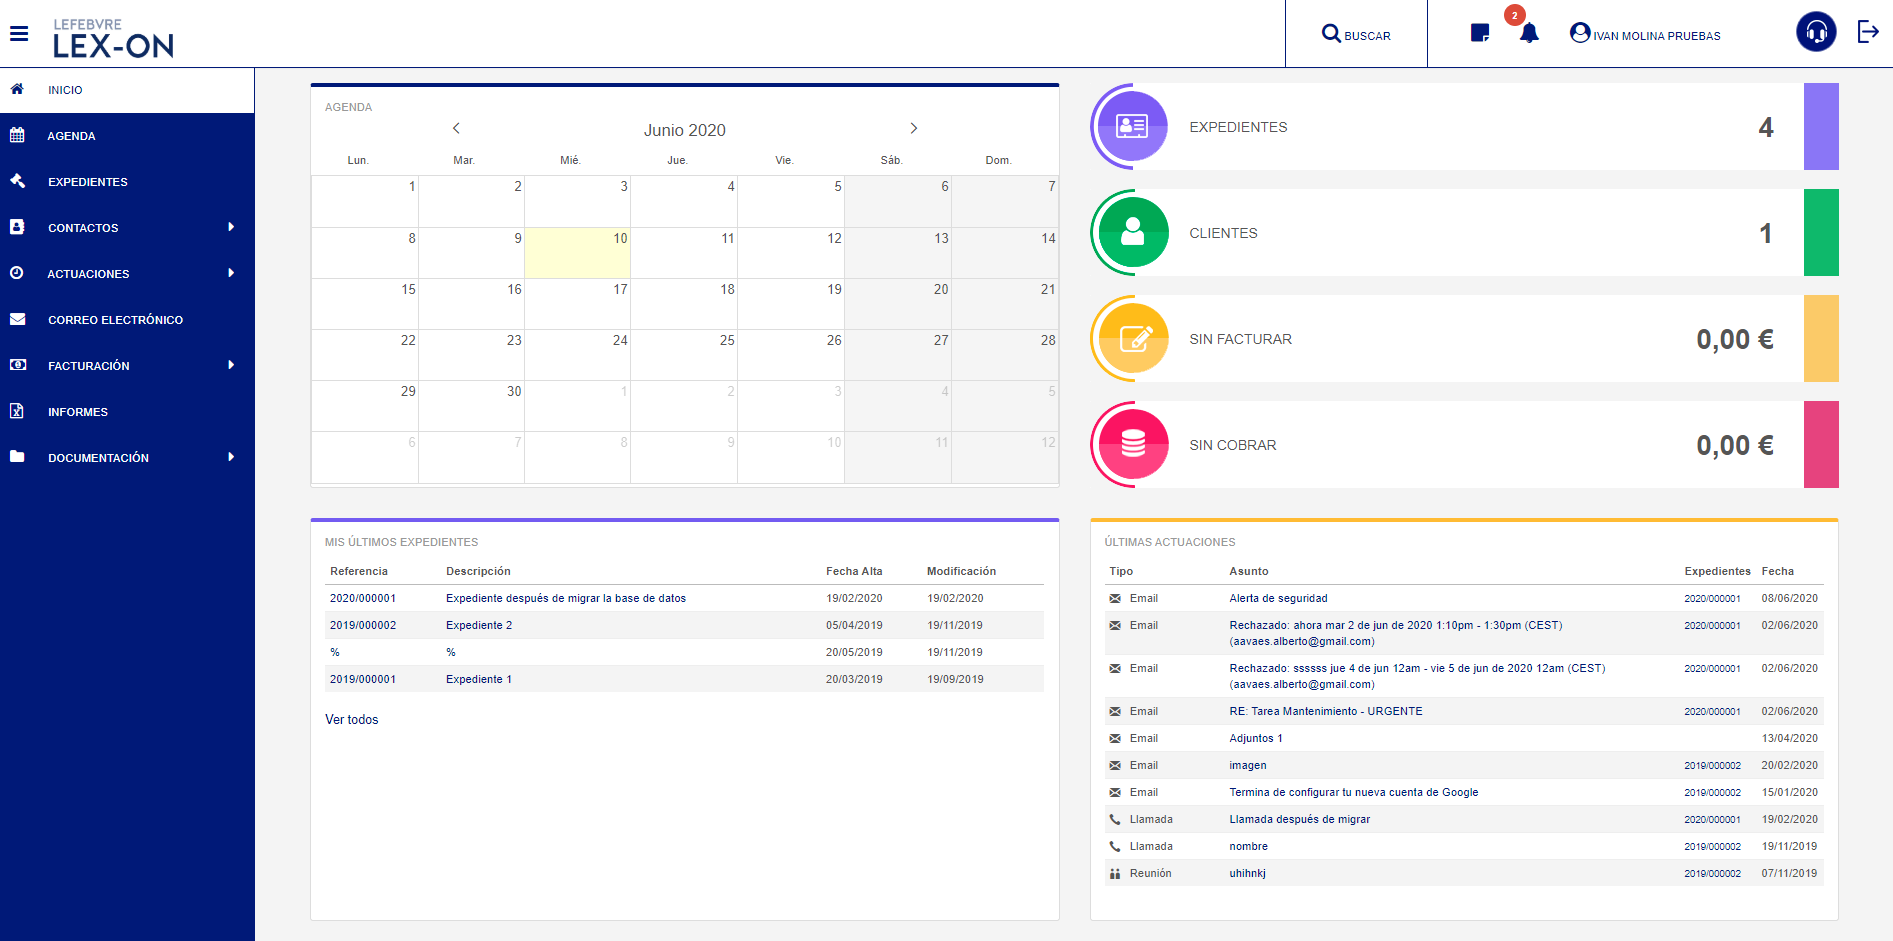
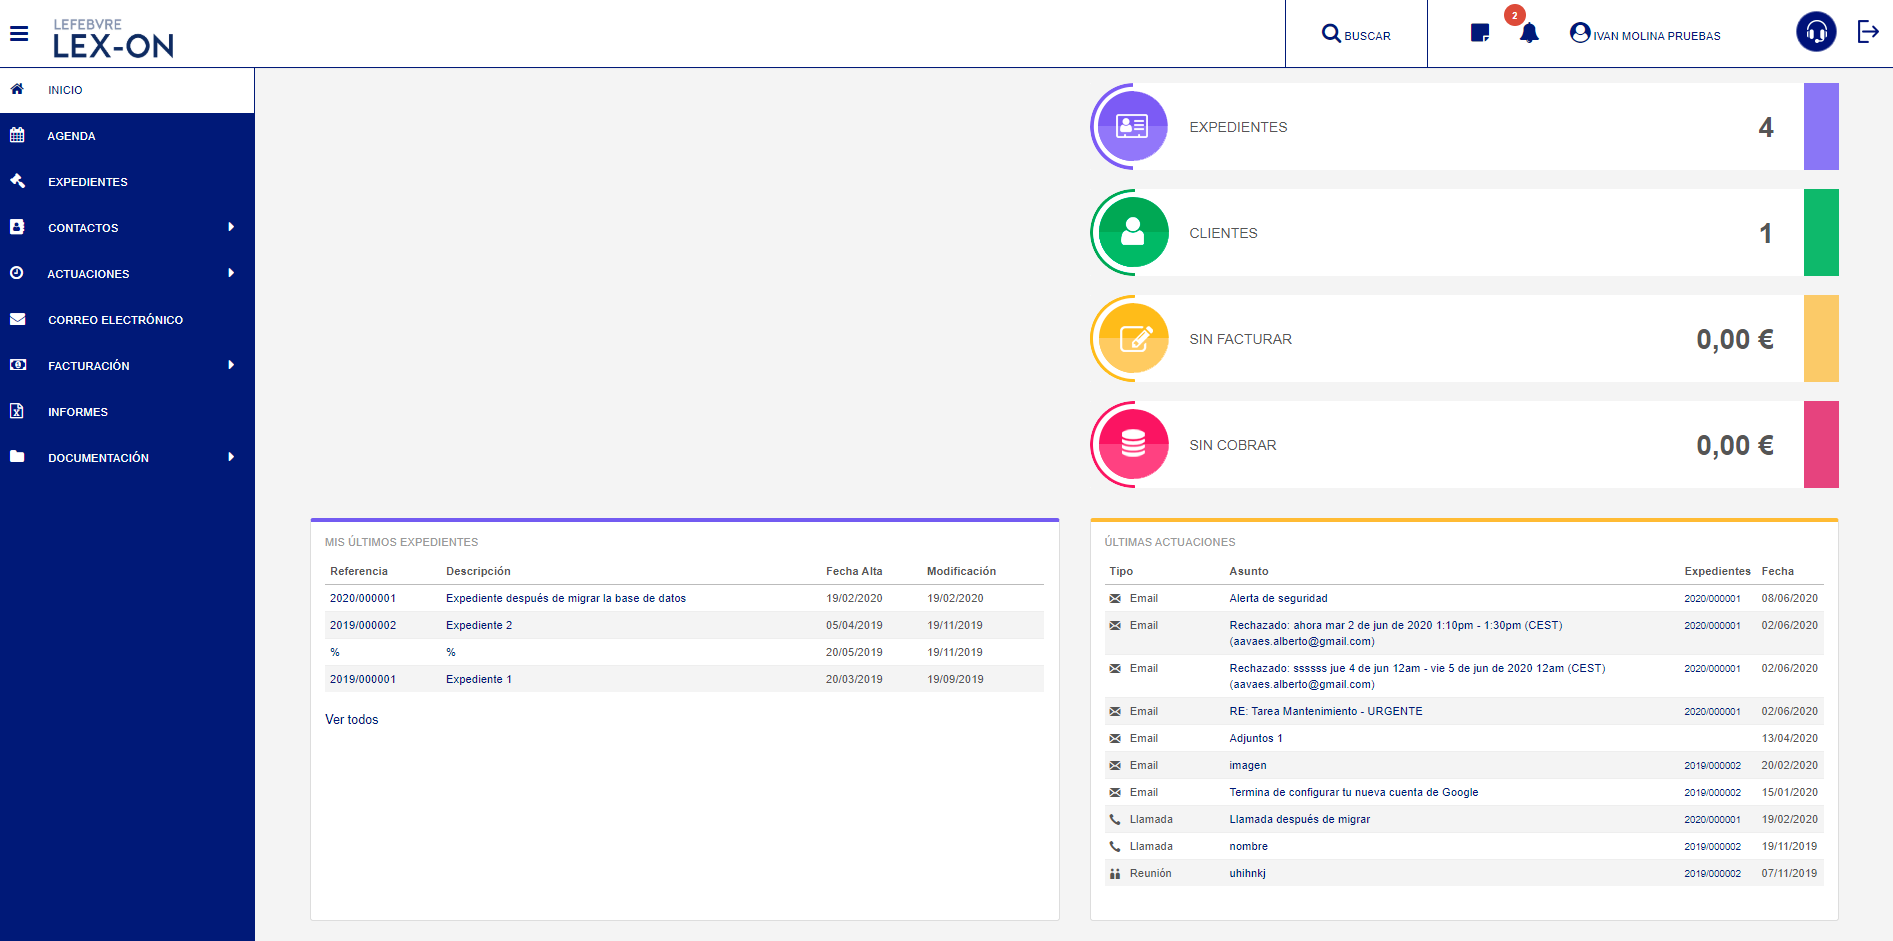
adding new iframe function

Changed region(s): [[0.1558, 0.0616, 0.561, 0.0925], [0.2493, 0.2157, 0.3428, 0.3082], [0.3428, 0.1233, 0.374, 0.1541]]

diff --git a/src/Web/WebGoogleClient/Client/src/calendar/components/main/main.jsx b/src/Web/WebGoogleClient/Client/src/calendar/components/main/main.jsx
@@ -116,7 +116,8 @@ export class Main extends Component {
             reminders: [],
             eventType: undefined,
             isVisibility: false,
-            to2: []
+            to2: [],
+            sidebarCollapsed:false
             //externalcomponent: "<LexonComponent sidebarDocked={this.onSetSidebarDocked} />"
         };
         this.handleGetUserFromLexonConnector = this.handleGetUserFromLexonConnector.bind(
@@ -203,7 +204,16 @@ export class Main extends Component {
         ];
 
     this.checkForParams();
-}
+    }
+
+    toggleSideBar() {
+        const toggleCollapsed = !this.state.leftSideBar.collapsed;
+        this.setState({
+            leftSideBar: {
+                collapsed: toggleCollapsed,
+            },
+        });
+    }
 
     onCloseDialog() {
         this.LoadCalendarList(false)
@@ -241,6 +251,7 @@ export class Main extends Component {
 
         if (params.get('layout') != undefined) {
             this.layoutIframe = true;
+           // this.setState({ sidebarCollapsed: true });
         }       
 
         if (params.get('newEvent') != undefined) {
@@ -684,6 +695,11 @@ export class Main extends Component {
     }
 
     componentDidMount() {
+
+        if (this.layoutIframe) {           
+            this.setState({ sidebarCollapsed: true });
+        }  
+
         window.addEventListener(
             'EventClassified',
             this.handleClassificatedEvent
@@ -1298,34 +1314,62 @@ export class Main extends Component {
         if (args.requestType === 'toolBarItemRendered') {
             let logoutIconEle = scheduleElement.querySelector('.e-schedule-logout-icon');
             logoutIconEle.onclick = () => {
-                alert('logout');
+               // alert('logout');
+                signOut();
+                window.location.reload();
             };
         }
-        let userContentEle = createElement('div', {
+        let logoutContentEle = createElement('div', {
             className: 'e-profile-wrapper'
         });
 
-        scheduleElement.parentElement.appendChild(userContentEle);
-        let userIconEle = scheduleElement.querySelector('.e-schedule-logout-icon');
-        let output = this.buttonEventTypeObj;       
+        scheduleElement.parentElement.appendChild(logoutContentEle);
+           
 
     }
+
+    
+
 
     addCalendarsButton(args) {
         let scheduleElement = document.getElementById('schedule');
         if (args.requestType === 'toolBarItemRendered') {
             let calendarIconEle = scheduleElement.querySelector('.e-schedule-calendar-icon');
             calendarIconEle.onclick = () => {
-                alert('calendars');
+                this.setState({ sidebarCollapsed: false });
+                
+                //this.profilePopupCalendar.relateTo = calendarIconEle;
+                //this.profilePopupCalendar.dataBind();
+                //if (this.profilePopupCalendar.element.classList.contains('e-popup-close')) {
+                //    this.profilePopupCalendar.show();
+                //}
+                //else {
+                //    this.profilePopupCalendar.hide();
+                //}
             };
         }
-        let userContentEle = createElement('div', {
+        let calendarContentEle = createElement('div', {
             className: 'e-profile-wrapper'
         });
 
-        scheduleElement.parentElement.appendChild(userContentEle);
-        let userIconEle = scheduleElement.querySelector('.e-schedule-calendar-icon');
-        let output = this.buttonEventTypeObj;
+        scheduleElement.parentElement.appendChild(calendarContentEle);
+
+        //scheduleElement.parentElement.appendChild(calendarContentEle);
+        //let calendarIconEle = scheduleElement.querySelector('.e-schedule-calendar-icon');
+
+        //let output = this.sidebarObj;
+        //this.profilePopupCalendar = new Popup(calendarContentEle, {
+        //    content: output,
+        //    relateTo: calendarIconEle,
+        //    position: { X: 'left', Y: 'bottom' },
+        //    collision: { X: 'flip', Y: 'flip' },
+        //    targetType: 'relative',
+        //    viewPortElement: scheduleElement,
+        //    width: 150,
+        //    height: 300
+        //});
+        //this.profilePopupCalendar.hide();
+       
 
     }
 
@@ -1946,21 +1990,24 @@ export class Main extends Component {
                             )}
 
                         <section className='main hbox space-between'>
-                            <Sidebar
-                                sideBarCollapsed={!this.layoutIframe ? (false) : (true)}
-                                sideBarToggle={this.toggleSideBar}
-                                getCalendarList={this.sidebarCalendarList}
-                                pathname={this.props.location.pathname}
-                                calendarResult={this.props.calendarsResult}
-                                onCalendarClick={this.loadCalendarEvents}
-                                onSidebarCloseClick={this.handleShowLeftSidebarClick}
-                                onCalendarChange={this.handleScheduleDate}
-                                onCalendarOpenEditor={this.handleScheduleOpenEditor}
-                                onCalendarOpenCalnendarView={this.openCalendarView}
-                                onCalendarDelete={this.deleteCalendar}
-                                onCalendarColorModify={this.calendarColorModify}
-
-                            />
+                           
+                                <Sidebar
+                                    sideBarCollapsed={this.state.sidebarCollapsed}
+                                    sideBarToggle={this.toggleSideBar}
+                                    getCalendarList={this.sidebarCalendarList}
+                                    pathname={this.props.location.pathname}
+                                    calendarResult={this.props.calendarsResult}
+                                    onCalendarClick={this.loadCalendarEvents}
+                                    onSidebarCloseClick={this.handleShowLeftSidebarClick}
+                                    onCalendarChange={this.handleScheduleDate}
+                                    onCalendarOpenEditor={this.handleScheduleOpenEditor}
+                                    onCalendarOpenCalnendarView={this.openCalendarView}
+                                    onCalendarDelete={this.deleteCalendar}
+                                    onCalendarColorModify={this.calendarColorModify}                                
+                                    ref={sidebar => this.sidebarCalendarObj = sidebar}
+                                />
+                           
+                           
                             <article className='d-flex flex-column position-relative'>
                                 <div className="hidden">
                                     <AttendeeAddress

diff --git a/src/Web/WebGoogleClient/Client/src/calendar/components/sidebar/sidebar.jsx b/src/Web/WebGoogleClient/Client/src/calendar/components/sidebar/sidebar.jsx
@@ -29,7 +29,8 @@ export class Sidebar extends PureComponent {
 
         this.state = {
             selectedLabel: props.pathname,
-            leftSideBarOpen: true           
+            leftSideBarOpen: true,   
+            sidebarCollapsed: this.props.sideBarCollapsed
         };
 
         this.navigateToList = this.navigateToList.bind(this);
@@ -58,7 +59,8 @@ export class Sidebar extends PureComponent {
     }
 
     sidebarAction() {
-        this.props.onSidebarCloseClick(this.state.leftSideBarOpen);
+        //this.props.onSidebarCloseClick(this.state.leftSideBarOpen);
+        this.setState({ sideBarCollapsed:true })
     }
 
     componentDidUpdate(prevProps, prevState) {
@@ -219,14 +221,14 @@ export class Sidebar extends PureComponent {
     render() {
         const { t } = this.props;
 
-        const collapsed = this.props.sideBarCollapsed;        
+       // const collapsed = this.props.sideBarCollapsed;        
 
         return (
             //${ collapsed ? '' : styles['with-side-bar'] }
             <nav
                 id="left-sidebar"
                 className={
-                    collapsed
+                    this.state.sidebarCollapsed
                         ? "d-flex flex-column text-truncate left-panel sidebar-close"
                         : "d-flex flex-column text-truncate left-panel sidebar-open"
                 }

diff --git a/src/Web/WebGoogleClient/Client/src/components/main/Main.jsx b/src/Web/WebGoogleClient/Client/src/components/main/Main.jsx
@@ -652,6 +652,7 @@ export class Main extends Component {
     //localStorage.clear();
   }
 
+
   onSignoutDisconnect() {
     console.log('IN ... onSignoutDisconnect');
     const { userId, token } = this.props.lexon;
